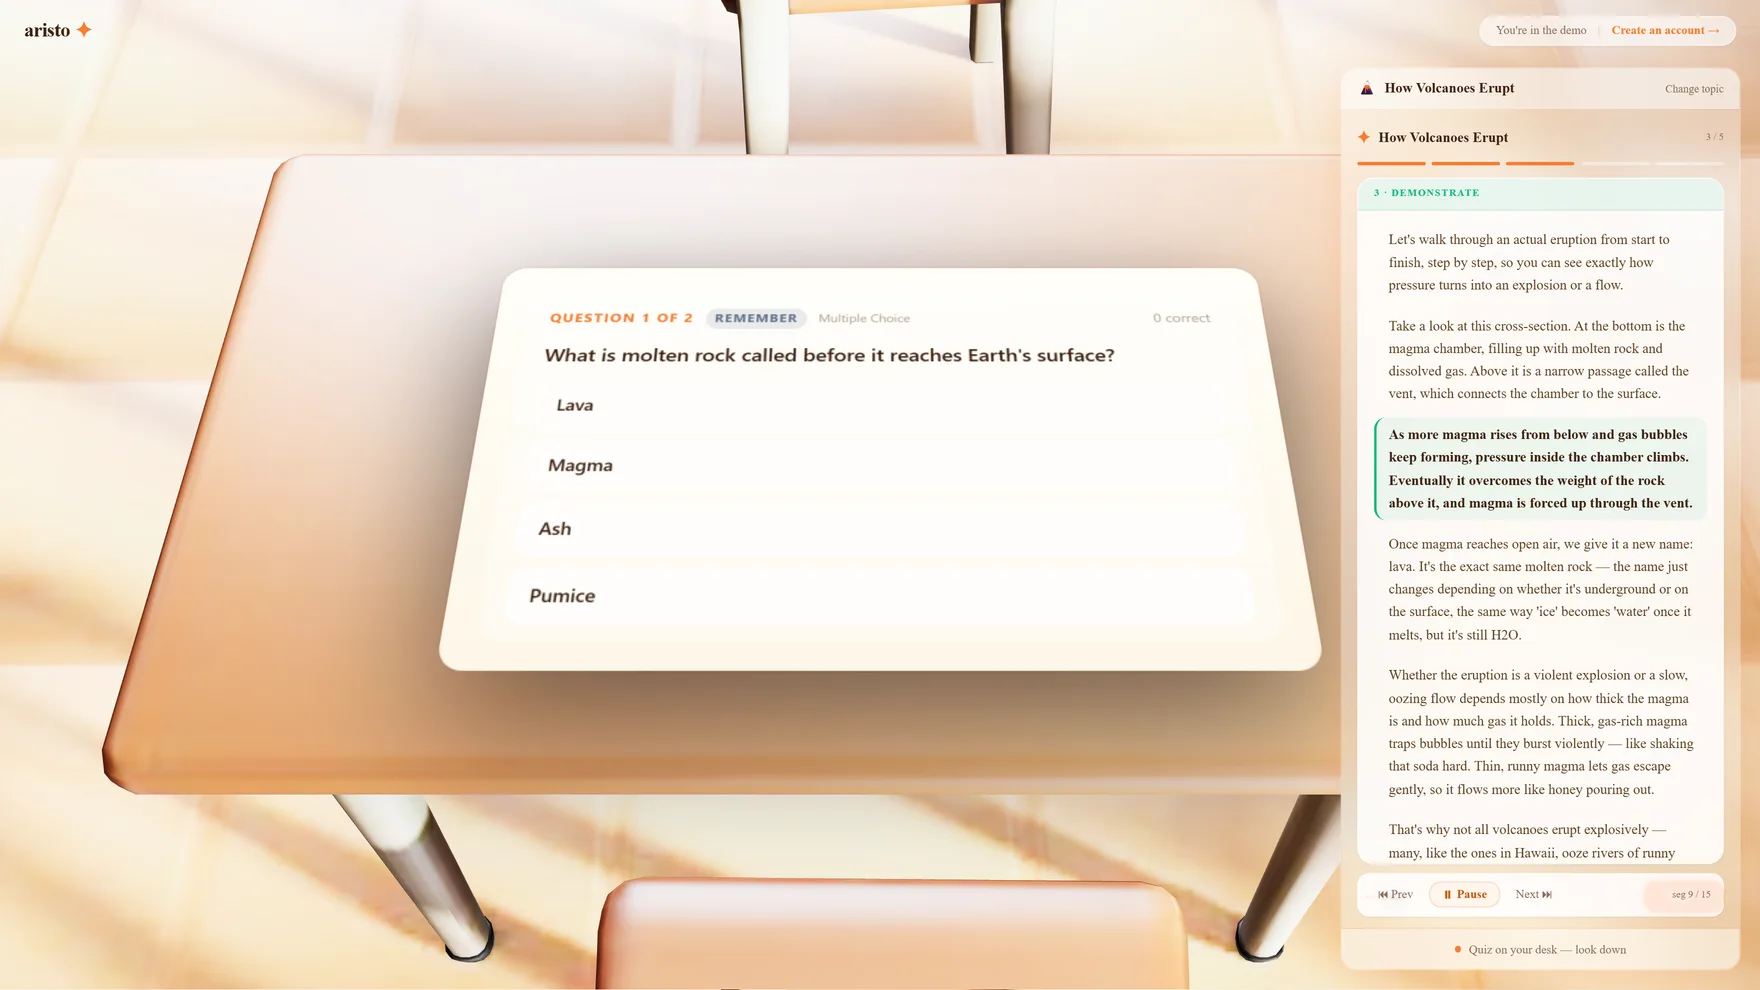
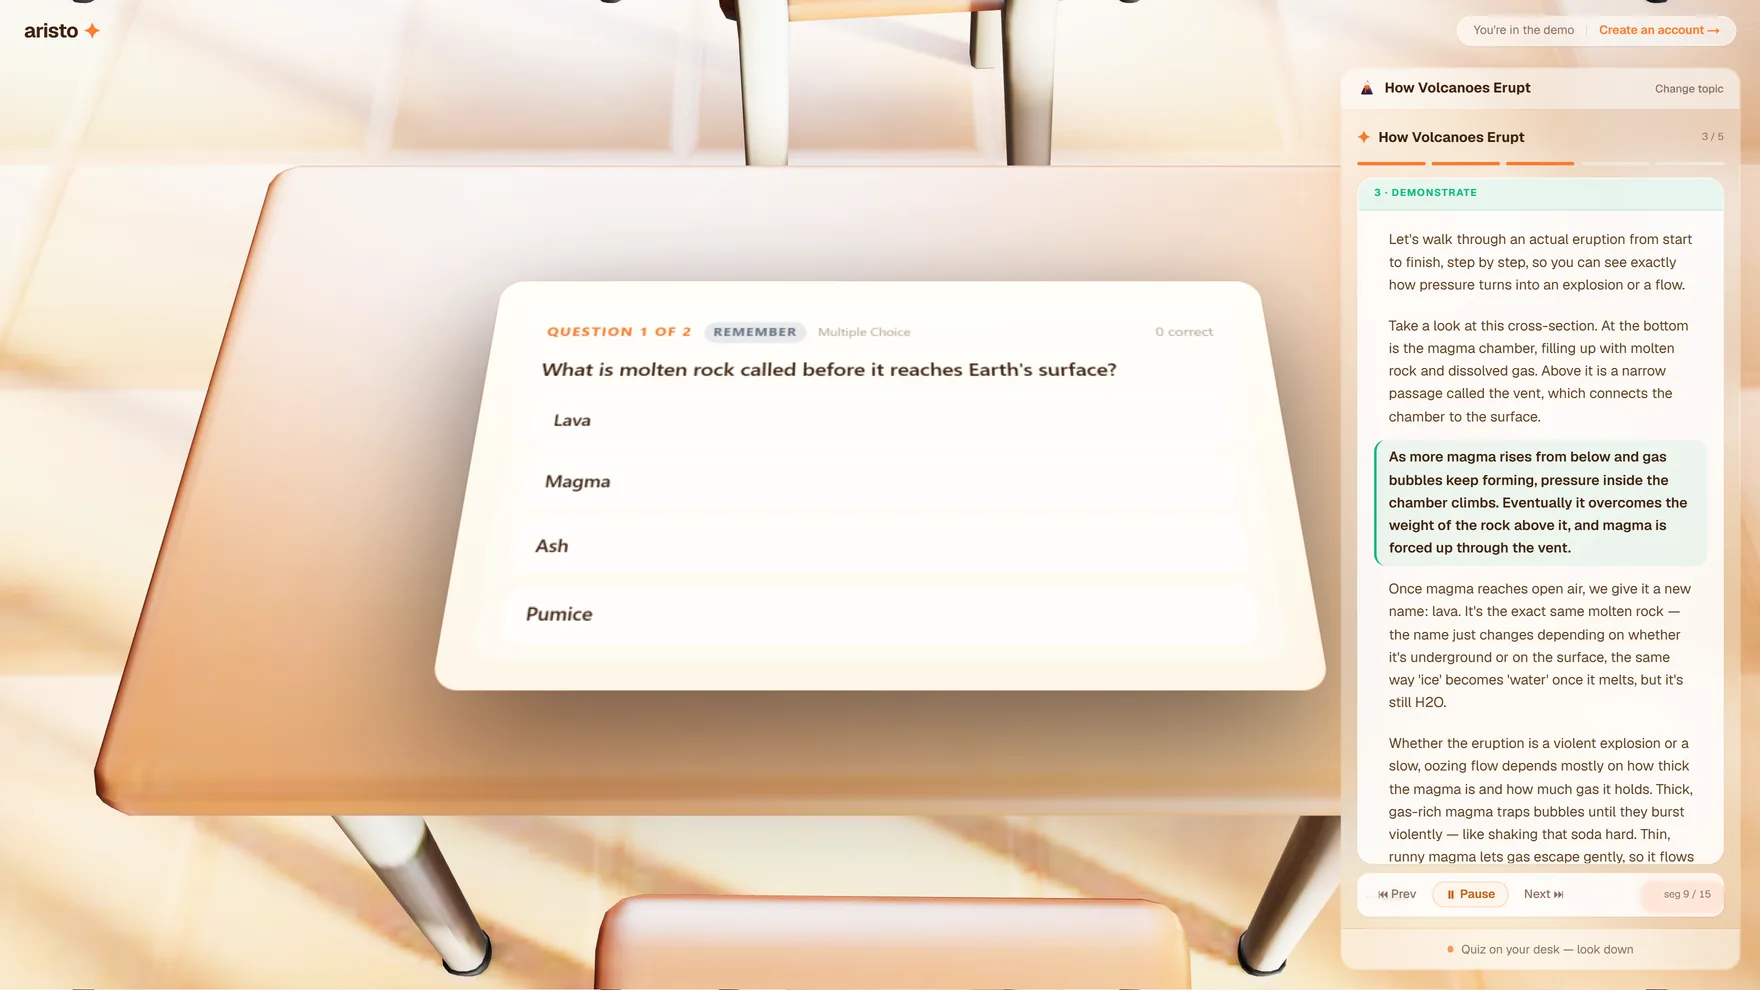
fix(fonts): give the Pages Router its Geist variables back
/demo, /learn and /dev/* rendered every piece of text in the browser's
default serif. The Geist variables were declared inline in the App
Router's root layout and set on its <body>, and the Pages Router never
renders that file -- it is Pages Router because of the R3F constraint.
Tailwind's preflight rule on <html> therefore referenced an undefined
custom property, and an undefined var() does not fall through to the next
family in the stack: the whole declaration is invalid at computed-value
time and is dropped, so text inherited the initial value.

Both fonts now come from one module, src/lib/fonts.ts, imported by both
entry points. The Pages Router side defines the properties on :root from
_app.tsx.

Two dead ends worth recording, both found by measuring rather than
assuming:

  - A wrapper element in _app.tsx fixes the visible tree but leaves
    <body> on Times New Roman, so everything Radix portals to
    document.body -- dialog, select, tooltip, dropdown -- stays serif.
  - A _document.tsx cannot do it either. next/font is only wired up for
    the Pages Router from _app or a page; from _document it returns a
    class name whose CSS is never emitted, which reads as working and is
    not.

Verified on a production build: html, body and bold content all compute
to Geist on /demo, where all three were Times New Roman before.

The two landing screenshots are re-captured against the fixed build,
since the old ones had the serif baked in.

diff --git a/pages/_app.tsx b/pages/_app.tsx
@@ -1,6 +1,39 @@
 import type { AppProps } from "next/app";
 import "@/app/globals.css";
+import { geistSans, geistMono } from "@/lib/fonts";
 
+/**
+ * The Pages Router entry (/learn, /demo, /dev/*).
+ *
+ * The only job of the style block is to define the `--font-geist-*` custom
+ * properties. The App Router's root layout sets them on <body>, but these
+ * pages never render that file — they are Pages Router because of the R3F
+ * constraint in CLAUDE.md. Without them, Tailwind's preflight rule
+ * `html { font-family: var(--font-geist-sans), system-ui, sans-serif }`
+ * references an undefined property, which makes the whole declaration invalid
+ * at computed-value time (CSS does not fall through to the next family), so
+ * every page here rendered in the browser's default serif.
+ *
+ * Two details worth keeping:
+ *   - It has to be declared from here, not from a _document.tsx. next/font is
+ *     only wired up for Pages Router from _app or a page; used in _document it
+ *     hands back a class name whose CSS is never emitted, which looks like it
+ *     works and does not.
+ *   - It targets `:root` rather than a wrapper element so that content
+ *     portalled to document.body inherits it too — Radix (dialog, select,
+ *     tooltip, dropdown) portals there by default, and a wrapper would leave
+ *     all of it rendering in Times New Roman.
+ */
 export default function App({ Component, pageProps }: AppProps) {
-  return <Component {...pageProps} />;
+  return (
+    <>
+      <style jsx global>{`
+        :root {
+          --font-geist-sans: ${geistSans.style.fontFamily};
+          --font-geist-mono: ${geistMono.style.fontFamily};
+        }
+      `}</style>
+      <Component {...pageProps} />
+    </>
+  );
 }

diff --git a/src/lib/fonts.ts b/src/lib/fonts.ts
@@ -1,0 +1,29 @@
+import { Geist, Geist_Mono } from "next/font/google";
+
+/**
+ * One definition of the app's typefaces, shared by both routers.
+ *
+ * These were previously declared inline in src/app/layout.tsx, which meant
+ * only App Router pages ever got the `--font-geist-*` custom properties.
+ * `/demo` and `/learn` are Pages Router (see the R3F constraint in CLAUDE.md)
+ * and render through pages/_app.tsx, so on those pages
+ * `font-family: var(--font-geist-sans), system-ui, sans-serif` referenced an
+ * undefined property. CSS does not fall through to the next family in that
+ * case — the declaration is invalid at computed-value time and is dropped, so
+ * text inherited the browser default (Times New Roman on Windows Chrome).
+ *
+ * next/font deduplicates by call site, so importing this module from both
+ * entry points serves the same self-hosted files, not two copies.
+ */
+export const geistSans = Geist({
+  variable: "--font-geist-sans",
+  subsets: ["latin"],
+});
+
+export const geistMono = Geist_Mono({
+  variable: "--font-geist-mono",
+  subsets: ["latin"],
+});
+
+/** Convenience for the wrappers that need to declare both. */
+export const fontVariables = `${geistSans.variable} ${geistMono.variable}`;

diff --git a/src/app/layout.tsx b/src/app/layout.tsx
@@ -1,16 +1,6 @@
 import type { Metadata } from "next";
-import { Geist, Geist_Mono } from "next/font/google";
 import "./globals.css";
-
-const geistSans = Geist({
-  variable: "--font-geist-sans",
-  subsets: ["latin"],
-});
-
-const geistMono = Geist_Mono({
-  variable: "--font-geist-mono",
-  subsets: ["latin"],
-});
+import { fontVariables } from "@/lib/fonts";
 
 export const metadata: Metadata = {
   title: "Aristo — Your Personal AI Teacher",
@@ -37,9 +27,7 @@ export default function RootLayout({
 }) {
   return (
     <html lang="en" suppressHydrationWarning>
-      <body
-        className={`${geistSans.variable} ${geistMono.variable} font-sans antialiased`}
-      >
+      <body className={`${fontVariables} font-sans antialiased`}>
         {children}
       </body>
     </html>
